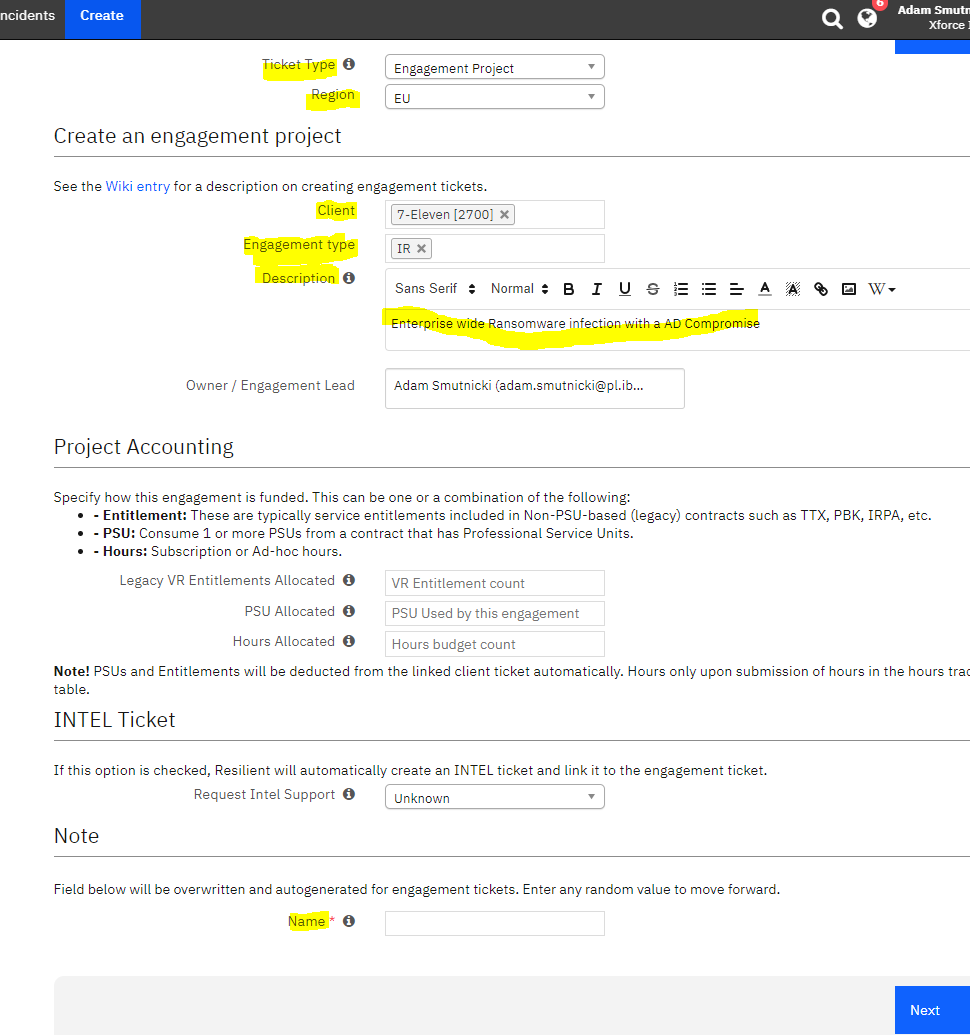
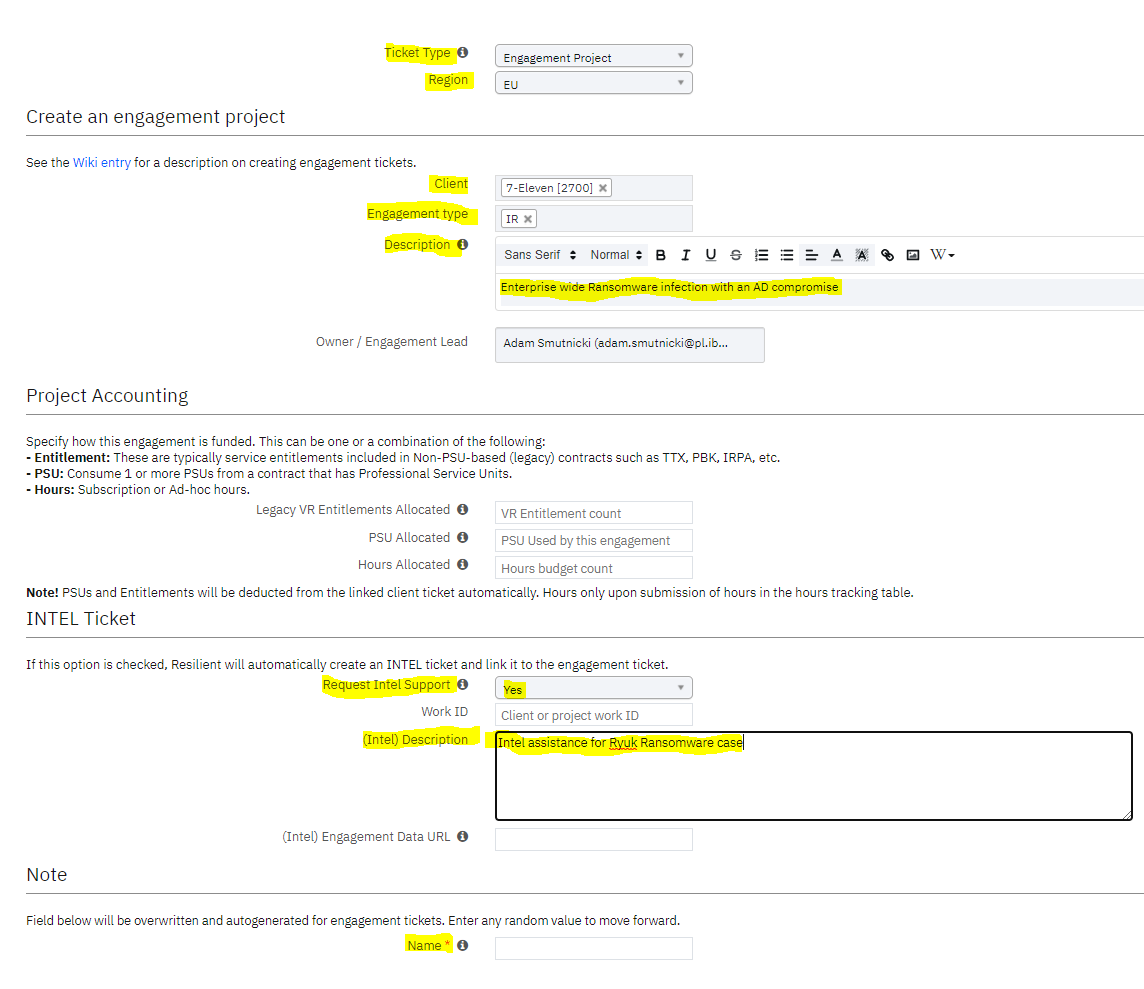
Several updates

diff --git a/DFIR-Resilient.md b/DFIR-Resilient.md
@@ -25,15 +25,27 @@ The following documentation is a guideline for the XFIR Resilient ticketing proc
 XFIR Resilient instance address: https://xforce-iris.resilientsystems.com. Resilient is not integrated with IBM's w3 Single Sign On, and accounts must be provisioned separately.
 
 ## Logging Requirements for New IR Engagements
-Following fields must be populated while logging new IR Engagement (some fields may only be populated after a ticket is created). While populating a ticket,:
+This section documents fields which must be populated while logging new IR Engagement. 
+
+#### Mandatory fields to be populated during IR ticket creation process:
+- "Ticket Type": "Engagement Project"
+- "Region": Fill in with correct value.
+- "Client": Which client this incident is assigned to. For Ad-hoc incidents, when there is no Client entry, leave it blank (to be populated later).
+- "Engagement type": "IR".
+- "Description":
+	- a **brief** description of incident, eg. "A BEC in UK" or "Ransomware outbreak in the factory in Austria".
+	- do **not** use multi-sentence/multi-line descriptions. There are separate fields in Resilient where you can add more text.
+	- do **not** include a client name, as there is a separate field dedicated for it (unless this is a ticket temporarily without a Client name)
+- "Request Intel Support": Yes (for every single case, even when TI support is not needed - it's for TI visibility into IR engagements)
+- "(Intel) Description":
+		- make sure it's meaningful (do **not** leave it empty!) - you can change it in the future,
+		- if you do not need TI support please enter: "No TI support needed, just for Intel awareness."
+		- if you are unsure, treat it as if you do not need TI support and enter same text as for no support,
+		- if you need TI support, enter a brief description, remember this is not a notes field, eg. "Intel assistance for Ryuk Ransomware case"
+- "Name": enter random value, will be automatically re-populated by Resilient.
+
+#### Mandatory fields to be populated after IR ticket was created:
 - "Engagement Details" tab:
-	- "Description":
-		- a **brief** description of incident, eg. "A BEC in UK" or "Ransomware outbreak in the factory in Austria".
-		- Do **not** use multi-sentence/multi-line descriptions. There are separate fields in Resilient where you can add more text.
-		- there is no need to add client name, as there is a separate field dedicated for it.
-	- Engagement type: "IR".
-	- Region: Fill in with correct value.
-	- Client: Which client this incident is assigned to. For Ad-hoc incidents, when there is no Client entry, leave it blank (to be populated later).
 	- Points of contact: fill in contact point details such as name, phone number and mail to most important people from Client side involved into this Engagement (not the same as the person calling the hotline - see next point).
 - "Triage worksheet" tab:
 	- Contact information: if ticket is created as a result of a Hotline call, details of a person calling Hotline should be filled in here.
@@ -75,21 +87,15 @@ When counting hours against subscription usage, Resilient is not using a date wh
 ## Tutorials
 
 ### Creating New Engagement Ticket
-This section provide a technical guide on how to create an IR Engagement ticket in Resilient. Ticket creation form contains only several most important fields and additional values can be added after ticket was created. Section  [Logging Requirements for New IR Engagements](#Logging-Requirements-for-New-IR-Engagements) describes in details which fields must be populated for every IR ticket.
+This section provides a technical guide on how to create an IR Engagement ticket in Resilient. Ticket creation form contains only several most important fields and additional values can be added after ticket was created. Section  [Logging Requirements for New IR Engagements](#Logging-Requirements-for-New-IR-Engagements) describes how to populate necessary fields and which are mandatory.
 
-To create a new ticket follow below steps (screenshot with example provided below):
+To create a new ticket follow below steps:
  1. Click "Create" from top horizontal menu in Resilient.
  2. Choose "Ticket Type": "Engagement Project".
- 3. Fill in correct "Region".
- 4. Find Client name from base of existing entries (start typing for suggestions, this is not "type value" field, so Client entry must exist). For Ad-hoc entries can be left blank until Client entry gets created and populated by Ops-Manager. 
- 5. Pick up "IR" tag from "Engagement type" field.
- 6. Fill in "Description" field - a brief, high level statement of what kind of incident it is. 
- 7. "Name" under "Notes" is automatically populated, so just enter any characters to proceed.
+ 3. Populate all fields marked in yellow on the below screenshoot following guidelines described in section [Logging Requirements for New IR Engagements](#Logging-Requirements-for-New-IR-Engagements).
 
 Example:
 ![Creating new IR Engagement in Resilient](screenshots/Resilient_New_IR_Engagement.png)
-
-
 
 ### Finding Details of Incident Declarers
 Each Client entry should contain contact points designated as Incident Declarers during onboarding process. However, in the past there were situations when there were no Incident Declarers or listed ones have already left the organisation. It is not possible to provide clearly defined guidelines for such a case and one should use a common sense to determine who should be reached from list of contact points. Some recommendations on who should be contacted to somehow replace Incident Declarer if such a person is not defined:

diff --git a/DFIR-SpinUp.md b/DFIR-SpinUp.md
@@ -5,7 +5,7 @@
 2. [**Setting up Collaboration Environment**](#Setting-up-Collaboration-Environment)
 	- [Internal XFIR Working Environment](#Internal-XFIR-Working-Environment)
 	- [Environment for Data Sharing with a Client](#Environment-for-Data-Sharing-with-a-Client)
-3.  [**Threat Intel Team Support**](#Threat-Intel-Team-Support)
+3.  [**Threat Intel Support**](#Threat-Intel-Support)
 4. [**Endpoint Detection and Response Deployment**](#Endpoint-Detection-and-Response-Deployment)
 5. [**Tutorials**](#Tutorials)
 	- [Slack](#Slack)
@@ -34,7 +34,7 @@ Proceed with following steps to set up working environment for collaboration wit
 3. Create a dedicated channel for this engagement within X-Force IRIS Slack workspace for regular communication about the case:
 	- channel name must be equal to a case number - "irXX-YYYY" (Slack channels are always named with lowercase letters)
 	- for small engagements, where there is only one person assigned and working individually, there is no need to create a Slack channel.
-4. Grant access to consultants assigned to this page:
+4. Grant access to consultants assigned to this case:
 	1. Populate an "Owner" field in Resilient with Case Lead name.
 	2. Populate "Members" field in Resilient with consultant assigned to this case.
 	3. Add people to Slack channel from X-Force IR or TI or RE teams.
@@ -74,15 +74,13 @@ Evidence Delivery in most of the cases is performed over the Internet. The best 
 
 Currently, none of the tools is GDPR compliant. Alternatively, digital evidence can be physically shipped to XFIR consultant or NA Forensics Lab. If Client do not agree to share digital evidence outside it's location, the only available solution would be on-site support.
 
-## Threat Intel Team Support
-Threat Intel (TI) and Reverse Engineering (RE) teams provide support for IR engagements. To get their support, proceed with following steps:
-1. Use instructions provided on a [Intel Ticketing](DFIR-IntelTicketing.md) page to request TI and/or RE assistance.
-2. Add TI/RE team members assigned to this case yo the case Slack channel.
+### Threat Intel Support
+Threat Intel (TI) and Reverse Engineering (RE) teams provide support for IR engagements. "Intel Engagement" ticket must be created for every IR ticket in Resilient irrespectively of decision whether TI/RE support is needed or not. It is done to ensure TI team has necessary visibility into IR engagements, thus is able to process outcomes of IR work. "Intel Engagement" ticket should have already been created during creation of the new IR ticket (shall this not be a case, it can be created following [this](DFIR-IntelTicketing.md#Creating-Intel-Engagement-Ticket) tutorial).
+
+ It is a Case Lead responsibility to determine whether TI or RE assistance is required. Requesting RE assistance automatically means that TI need to be engaged. Dedicated [Threat Intel](DFIR-Threat-Intel.md) page contains several section on how to interact and get support from TI team. 
 
 ## Endpoint Detection and Response Deployment
-TODO:
-- How to request EDR.
-- to be unified with ATA wiki, to avoid duplication
+This section is currently unavailable - please use EDR [Deployment](https://github.ibm.com/XFIR/ATA-wiki/wiki/ATA-Engagement-Process#deployment) section from ATA wiki, until this section is ready.
 
 ## Tutorials
 
@@ -167,18 +165,4 @@ Location: https://ibm.ibmaspera.com/
 - Aspera is able to use whole available bandwidth of the Internet connection so may disturb other traffic.
 
 
-
-############################################################
-
-
-## OLD
-
-4.  Every IR engagement requires an  [Intel Engagement Ticket](https://github.ibm.com/XFIR/DFIR-wiki/blob/development/DFIR-SpinUp.md#intel-engagement-ticket). When we engage Intel for malware analysis, dark-web analysis, or any other Intel specific task related to an IR engagement, that work needs to be tracked and associated with an  `Engagement Work`  Intel ticket.
-
-
-## Intel Engagement Ticket
-
-All XFIR engagements of the type  `IR`  require an initial  `Engagement Work`  Intel ticket. Intel uses Jira for ticketing and associates additional tickets created in support of an engagement with this initial  `Engagement Work`  ticket. For example, if you submit three malware analysis tickets for your engagement, Intel will track the relationship between those tickets through the initial Intel ticket.
-
-This makes the task of tracking those tickets easier for Intel and facilitates better workflow between IR consultants and Intel analysts working on an engagement together. XFIR uses functionality within Resilient to create and associate these tickets with our client engagements. For more information see the  [Intel Analysis Ticketing](https://github.ibm.com/XFIR/DFIR-wiki/wiki/XFIR-IR-IntelTicketing)  section.
 

diff --git a/DFIR-Threat-Intel.md b/DFIR-Threat-Intel.md
@@ -1,6 +1,37 @@
 
 # XFIR Incident Response Intel Analysis Ticketing Process
 
+
+
+## Contact Points
+| Intel Team | Manager | Backup|
+|:--|:--|:--|
+| Threat Hunt & Discovery | Chris Sperry | ?? |
+| Malware RE & Development | Anne Jobmann | ?? |
+
+## Requesting TI Support for IR Engagements
+Upon decision to engage TI or RE team, proceed with below steps:
+1. Add necessary Intel Managers (list with names is [here](DFIR-Threat-Intel.md#Contact-Points)), who will assign resources from their teams:
+	- add *Intel Threat Hunt & Discovery* team Manager to a case Slack channel.
+	- if RE support is needed, add *Malware RE & Development* team Manager to a case Slack channel.
+	
+2. Provide basic information and define the scope of TI support for Intel Threat Hunt & Discovery team, following process documented 
+
+For Intel Threat Hunt & Discovery
+- slack message pinned
+- how to populate Intel ticket
+- provide Resilieint Intel ticket
+
+
+## Requesting TI Suport for Standalone Intel Engagements
+requests from the scope of the IR, but without XFIR being engaged, so we are just a proxy. 
+
+## Tutorials
+### Creating Intel Engagement Ticket
+
+
+###################################
+
 The purpose of this page is to document the XFIR Incident Response ticketing process for Intel support.
 
 During an Incident Response engagement as the need for various Intel services or support arises, you will need to create a ticket for those support services including Malware Analysis, DarkWeb Analysis, Engagement Support, etc.
@@ -12,6 +43,14 @@ The following documentation is a guideline for XFIR consultants for the XFIR Inc
  - [**Creating an IR Ticket with Intel Support**](#creating-an-ir-ticket-with-intel-support)
  - [**Creating an Intel Ticket for an Existing Resilient Engagement Ticket**](#creating-an-intel-ticket-for-an-existing-resilient-engagement-ticket)
  - [**Creating a Malware Analysis Ticket**](#creating-a-malware-analysis-ticket)
+
+## from Spin Up
+All XFIR engagements of the type  `IR`  require an initial  `Engagement Work`  Intel ticket. Intel uses Jira for ticketing and associates additional tickets created in support of an engagement with this initial  `Engagement Work`  ticket. For example, if you submit three malware analysis tickets for your engagement, Intel will track the relationship between those tickets through the initial Intel ticket.
+
+This makes the task of tracking those tickets easier for Intel and facilitates better workflow between IR consultants and Intel analysts working on an engagement together. XFIR uses functionality within Resilient to create and associate these tickets with our client engagements. For more information see the  [Intel Analysis Ticketing](https://github.ibm.com/XFIR/DFIR-wiki/wiki/XFIR-IR-IntelTicketing)  section.
+
+
+
 
 ## Intel Support
 Intel supports XFIR during our engagements through various services XFIR consultants can leverage including dedicated intel analyst support for IR engagements, malware reverse engineering, dark web analysis, and more. 
@@ -27,7 +66,7 @@ If there is already a `Hotline Triage` ticket and the client has engaged XFIR fo
 
 Both of these scenarios are documented in the following sections.
 
-## Creating an IR Ticket with Intel Support
+## Creating Intel Engagement Ticket
 
 In the case where you want to create an IR ticket and an Intel ticket at the same time use the following instructions:
 

diff --git a/DFIR-Triage-Scoping.md b/DFIR-Triage-Scoping.md
@@ -85,7 +85,7 @@ Individuals to represent necessary roles during Triage and Scoping Calls can be 
 Triage Call Lead (as defined [here](#Roles-of-Participants)) responsibilities are defined as following:
 - leading Triage and Scoping Call,
 - taking notes or designating notetaking to another attendee,
-- preparing and sending[Engagement Initiation Mail](#Engagement-Initiation-Mail), to Client representatives present on a Triage and Scoping Call as well as all Incident Declarers listed in Resilient (who can be found following [this tutorial](DFIR-Resilient.md#Finding-Details-of-Incident-Declarers)),
+- preparing and sending [Engagement Initiation Mail](#Engagement-Initiation-Mail), to Client representatives present on a Triage and Scoping Call as well as all Incident Declarers listed in Resilient (who can be found following [this tutorial](DFIR-Resilient.md#Finding-Details-of-Incident-Declarers)),
 - ensuring that incident details and Triage and Scoping Call outcome is recorded in Resilient:
 	- by now there should already be a Resilient entry, but if not create one following guidelines from [Logging Requirements for New IR Engagements](DFIR-Resilient.md#Logging-Requirements-for-New-IR-Engagements) section from Resilient page,
 	- update existing Resilient entry with additional details obtained during Triage and Scoping Call, especially "Triage Worksheet" tab,
